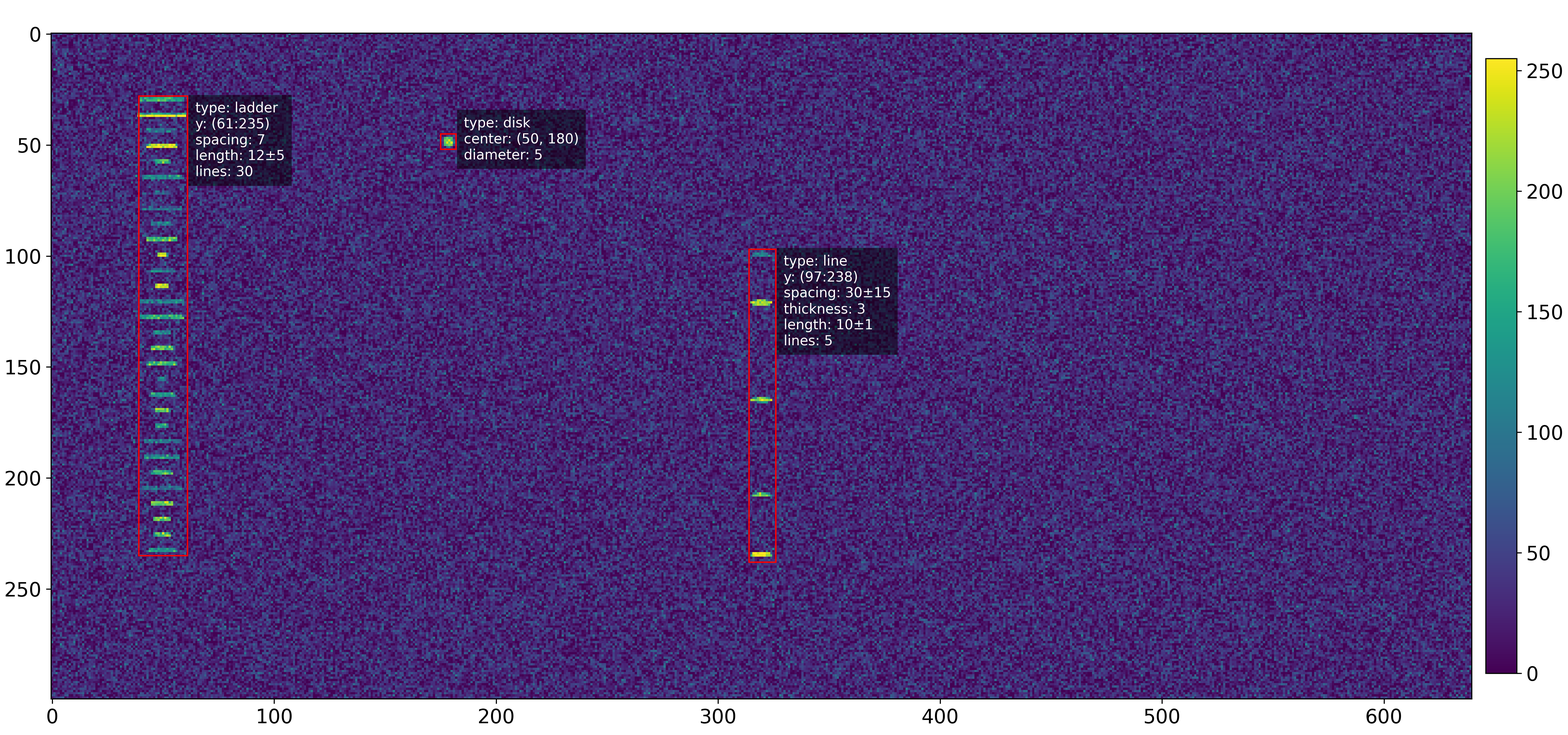
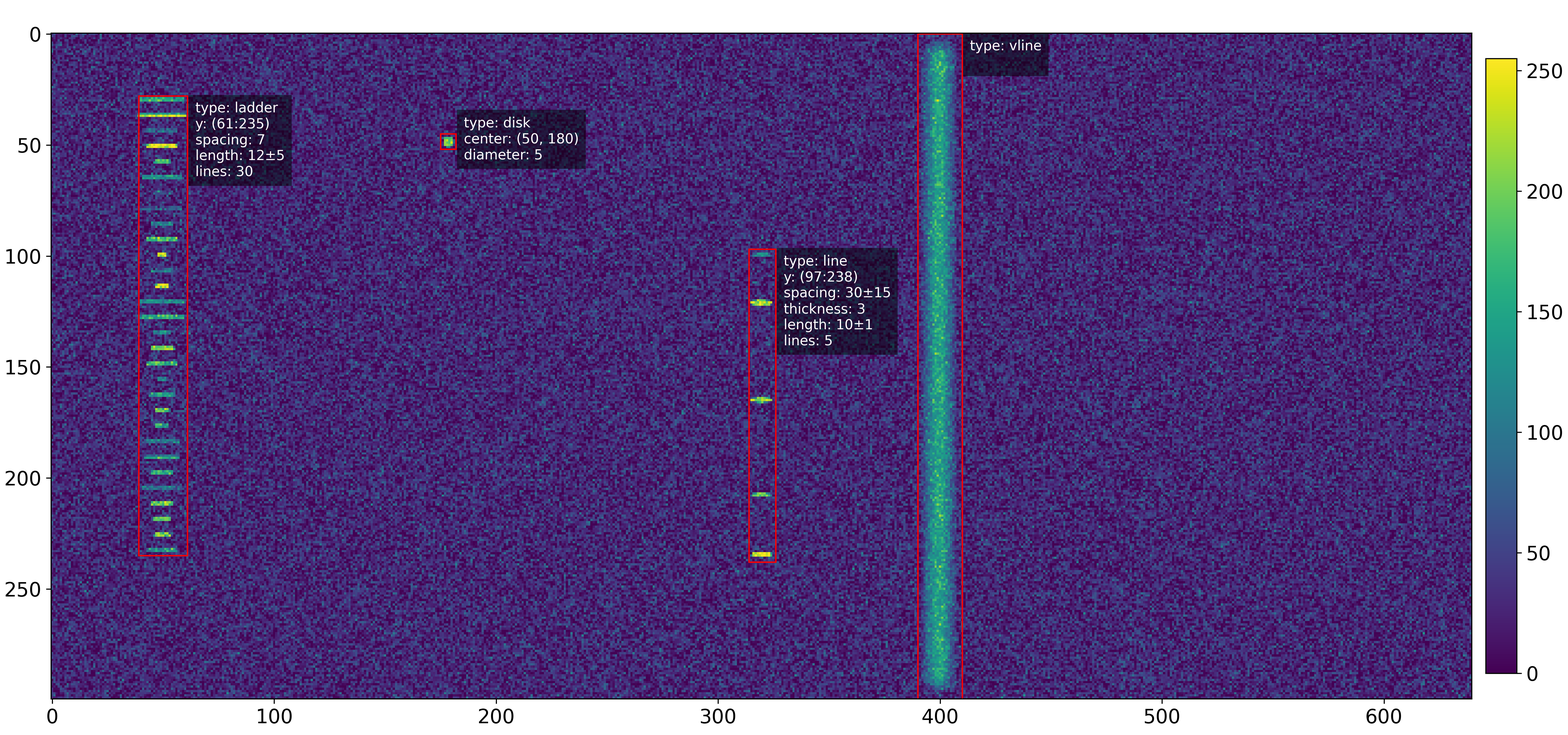
Linge verticale

diff --git a/ImageSynthetique.py b/ImageSynthetique.py
@@ -223,6 +223,27 @@ class Image:
         self.clip()
         pass
 
+    def add_vline(self, starting_pt, length, intensity, thickness=10):
+        self.objects.append({'type': 'vline',
+                            'starting point': starting_pt,
+                            'intensity': intensity,
+                            'length': length,
+                            'thickness': thickness})
+        times = 4
+        big_image = np.zeros((self.height*times, self.width*times), np.float32)
+
+        starting_pt = np.array(starting_pt)
+        self.objects[-1]['coords'] = (tuple(starting_pt-thickness), tuple(starting_pt+thickness+[0, length]))
+        starting_pt *= times
+        length *= times
+        thickness *= times
+
+        big_image = cv2.line(big_image, starting_pt, starting_pt+[0, length], intensity, thickness=thickness)
+
+        image_resize = cv2.resize(big_image, (self.width, self.height))
+        image_resize = cv2.GaussianBlur(image_resize, (7, 7), 50)
+        self.image = cv2.add(self.image, image_resize)
+        pass
 
     def plot_masked(self):
         """Plot image masked."""

diff --git a/main.py b/main.py
@@ -80,6 +80,7 @@ def main():
         # Add lines
         test.add_lines(starting_pt=[320, 100], spacing=30, spacing_var=0.5, thickness=3,
                         lines=5, seed=30)
+        test.add_vline(starting_pt=[400, 10], length=280, intensity=120)
         test.plot_label()
         plt.savefig(img_dir+'test')
         var_time = timing('test', var_time)
